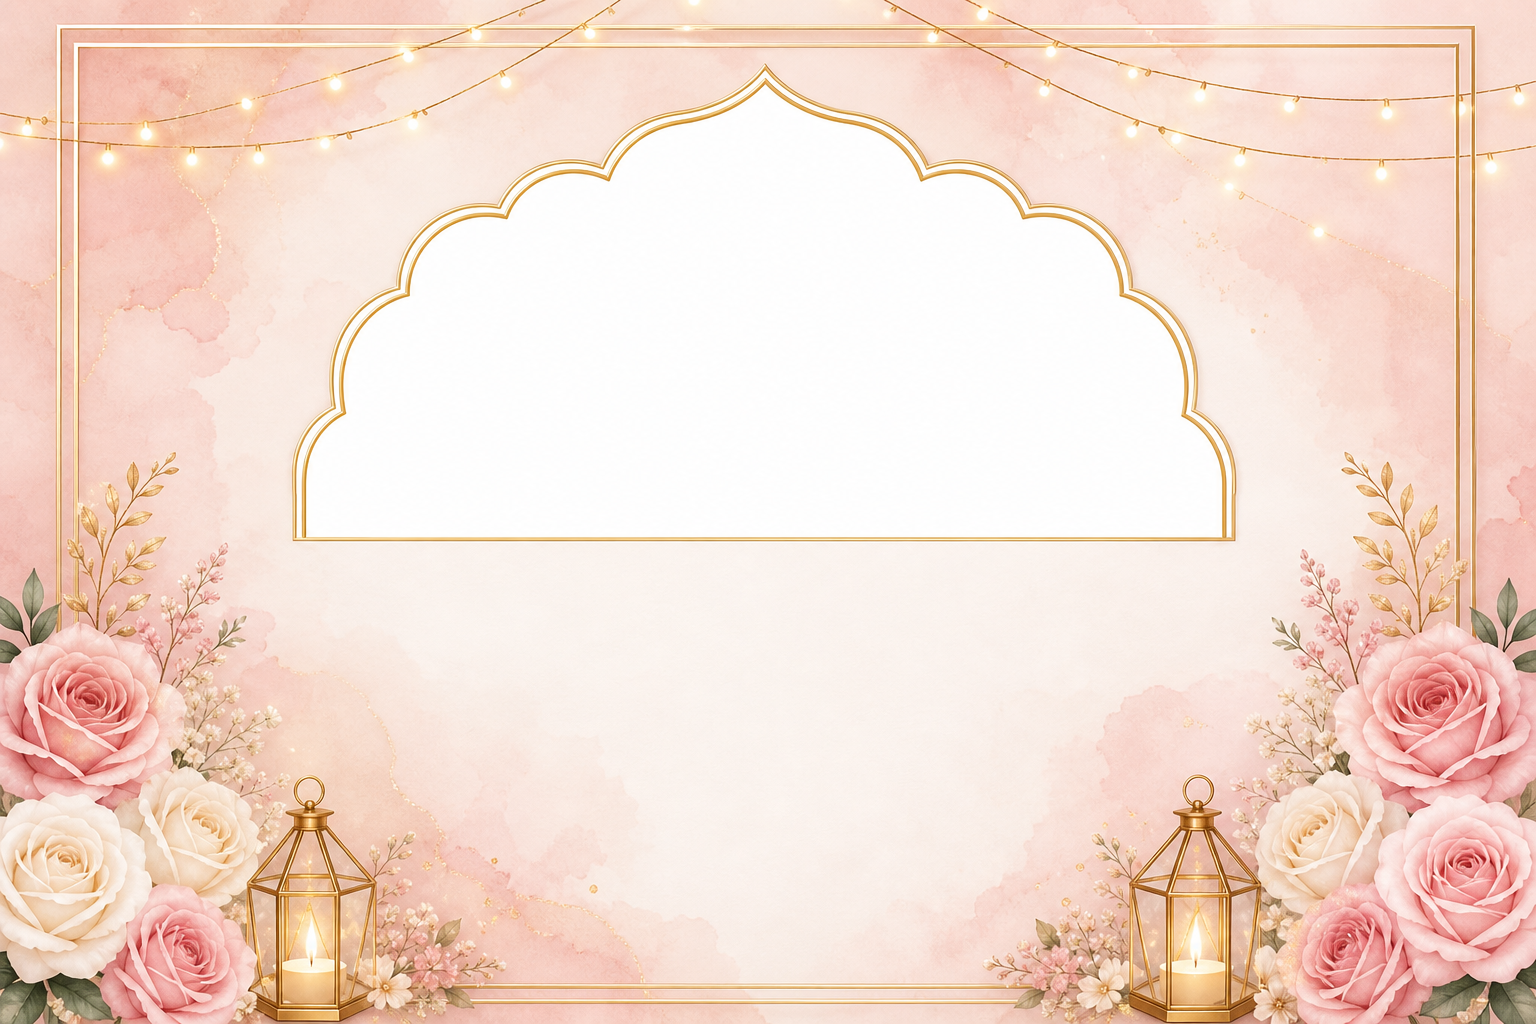
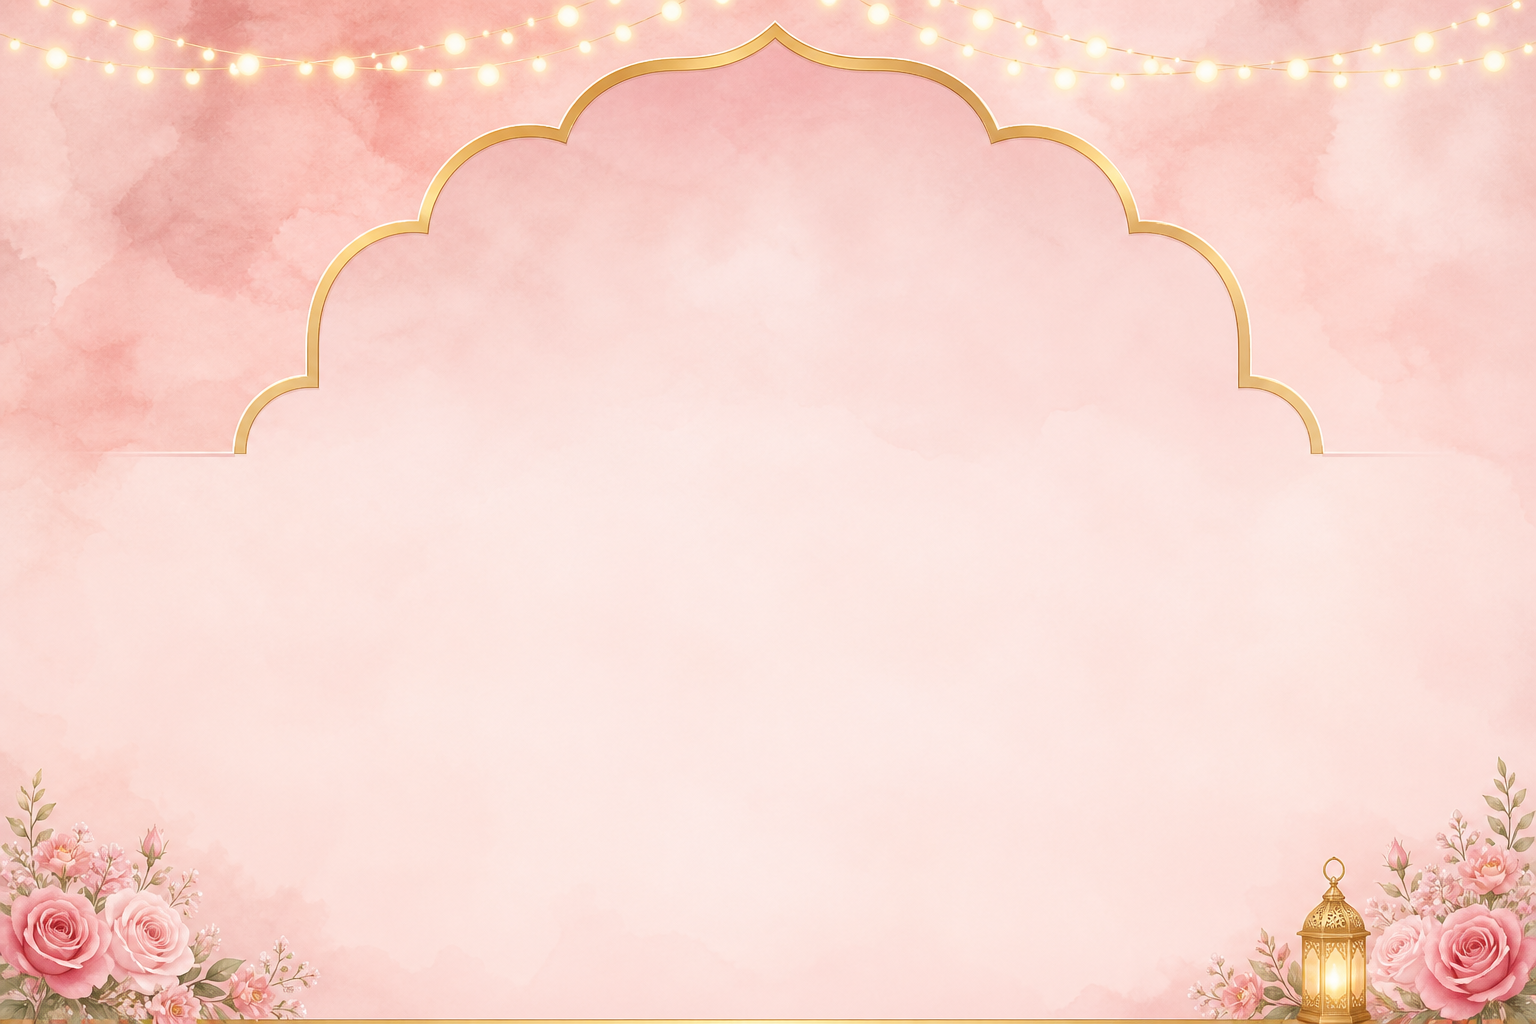
Replace engagement 01 and 04 with text-friendly designs
New artwork: plain middle band, décor at edges/bottom only.
Tighter arch, narrower text column, lower safe bottom (y~1000).
Slightly smaller typography on 01 and 04 when photo is uploaded.

Renamed: Temple Jasmine Arch, Pink Lights Minimal.

diff --git a/app/src/main/java/com/vaangainvite/core/image/InvitationImageGenerator.kt b/app/src/main/java/com/vaangainvite/core/image/InvitationImageGenerator.kt
@@ -221,6 +221,7 @@ class InvitationImageGenerator(private val context: Context) {
         val hasUserMessage = userMessage.isNotBlank()
         val isPeacockVase = template.id == "wedding_05"
         val isEngagement = template.id.startsWith("engagement")
+        val isTightEngagementCard = template.id == "engagement_01" || template.id == "engagement_04"
         val isPeacockWithPhoto = isPeacockVase && hasUploadedPhoto
         val compactLayout = (hasUploadedPhoto && hasUserMessage) || isPeacockVase ||
             (isEngagement && hasUploadedPhoto)
@@ -236,12 +237,14 @@ class InvitationImageGenerator(private val context: Context) {
         }
 
         val introSize = when {
+            isTightEngagementCard && hasUploadedPhoto -> 26f
             isPeacockVase -> 28f
             isEngagement && hasUploadedPhoto -> 28f
             template.id == "wedding_02" && hasUploadedPhoto -> 28f
             else -> 32f
         }
         val occasionSize = when {
+            isTightEngagementCard && hasUploadedPhoto -> 34f
             isPeacockVase -> 38f
             isEngagement && hasUploadedPhoto -> 38f
             template.id == "wedding_02" && hasUploadedPhoto -> 40f
@@ -254,6 +257,7 @@ class InvitationImageGenerator(private val context: Context) {
             palette.primaryColor,
             when {
                 isPeacockVase -> 54f
+                isTightEngagementCard && hasUploadedPhoto -> 44f
                 isEngagement && hasUploadedPhoto -> 48f
                 compactLayout && usesPhotoBackground -> 52f
                 hasUploadedPhoto && usesPhotoBackground -> 54f
@@ -277,6 +281,7 @@ class InvitationImageGenerator(private val context: Context) {
         val messagePaint = textPaint(
             palette.messageColor,
             when {
+                isTightEngagementCard && hasUploadedPhoto -> 20f
                 isEngagement && hasUploadedPhoto -> 22f
                 usesPhotoBackground -> 24f
                 else -> 26f

diff --git a/app/src/main/java/com/vaangainvite/core/image/InvitationLayout.kt b/app/src/main/java/com/vaangainvite/core/image/InvitationLayout.kt
@@ -82,13 +82,13 @@ internal object InvitationLayout {
         "puberty_01" to TextZoneSpec(left = 290f, right = 790f, topNoPhoto = 280f, topWithPhoto = 492f),
         // Engagement WebPs — per-card cream band (measured on designed 1080×1350 art)
         "engagement_01" to TextZoneSpec(
-            left = 200f,
-            right = 880f,
-            topNoPhoto = 468f,
-            topWithPhoto = 492f,
-            bottom = 1085f,
-            messageBottom = 1035f,
-            photoTextGap = 10f
+            left = 235f,
+            right = 845f,
+            topNoPhoto = 458f,
+            topWithPhoto = 478f,
+            bottom = 1002f,
+            messageBottom = 952f,
+            photoTextGap = 14f
         ),
         "engagement_02" to TextZoneSpec(
             left = 200f,
@@ -109,13 +109,13 @@ internal object InvitationLayout {
             photoTextGap = 8f
         ),
         "engagement_04" to TextZoneSpec(
-            left = 210f,
-            right = 870f,
-            topNoPhoto = 465f,
-            topWithPhoto = 490f,
-            bottom = 1085f,
-            messageBottom = 1035f,
-            photoTextGap = 10f
+            left = 235f,
+            right = 845f,
+            topNoPhoto = 452f,
+            topWithPhoto = 472f,
+            bottom = 998f,
+            messageBottom = 948f,
+            photoTextGap = 14f
         ),
         "engagement_05" to TextZoneSpec(
             left = 205f,

diff --git a/docs/samples/engagement/index.html b/docs/samples/engagement/index.html
@@ -20,13 +20,13 @@
   <p>WebP art + arch photo + app-drawn text. Sample: Kavin &amp; Sowmya.</p>
   <h2>Traditional</h2>
   <div class="grid">
-    <figure><img src="engagement_01_with_photo.png" alt=""><figcaption><strong>01 Green Toran Blessing</strong></figcaption></figure>
+    <figure><img src="engagement_01_with_photo.png" alt=""><figcaption><strong>01 Temple Jasmine Arch</strong> (wide text band)</figcaption></figure>
     <figure><img src="engagement_02_with_photo.png" alt=""><figcaption><strong>02 Marigold Heritage</strong></figcaption></figure>
     <figure><img src="engagement_03_with_photo.png" alt=""><figcaption><strong>03 Peacock Lotus Garden</strong></figcaption></figure>
   </div>
   <h2>Modern</h2>
   <div class="grid">
-    <figure><img src="engagement_04_with_photo.png" alt=""><figcaption><strong>04 Blush Rose Lights</strong></figcaption></figure>
+    <figure><img src="engagement_04_with_photo.png" alt=""><figcaption><strong>04 Pink Lights Minimal</strong> (wide text band)</figcaption></figure>
     <figure><img src="engagement_05_with_photo.png" alt=""><figcaption><strong>05 Sage Garden Glow</strong></figcaption></figure>
   </div>
 </body>

diff --git a/app/src/main/java/com/vaangainvite/data/repository/TemplateRepository.kt b/app/src/main/java/com/vaangainvite/data/repository/TemplateRepository.kt
@@ -218,8 +218,8 @@ class TemplateRepository {
         photoTemplate(
             id = "engagement_01",
             categoryId = "engagement",
-            title = "Green Toran Blessing",
-            description = "Banana leaf, jasmine garland, kalash & diyas.",
+            title = "Temple Jasmine Arch",
+            description = "Wide cream text band — toran arch, edge diyas only.",
             resId = R.drawable.bg_engagement_01,
             primaryColor = 0xFF2E7D32.toInt()
         ),
@@ -242,8 +242,8 @@ class TemplateRepository {
         photoTemplate(
             id = "engagement_04",
             categoryId = "engagement",
-            title = "Blush Rose Lights",
-            description = "Pink wash, fairy lights, roses & lanterns.",
+            title = "Pink Lights Minimal",
+            description = "Open pink panel for text — lights top, roses bottom corners.",
             resId = R.drawable.bg_engagement_04,
             primaryColor = 0xFFC2185B.toInt()
         ),

diff --git a/app/src/main/java/com/vaangainvite/core/image/EngagementPhotoPlacement.kt b/app/src/main/java/com/vaangainvite/core/image/EngagementPhotoPlacement.kt
@@ -25,13 +25,10 @@ internal object EngagementPhotoPlacement {
     )
 
     private val specs = mapOf(
-        "engagement_01" to Spec(RectF(312f, 128f, 768f, 448f)),
+        "engagement_01" to Spec(RectF(318f, 118f, 762f, 432f)),
         "engagement_02" to Spec(RectF(308f, 122f, 772f, 452f)),
         "engagement_03" to Spec(RectF(318f, 135f, 762f, 445f)),
-        "engagement_04" to Spec(
-            bounds = RectF(322f, 130f, 758f, 450f),
-            border = Border.INNER_GLOW
-        ),
+        "engagement_04" to Spec(RectF(320f, 115f, 760f, 428f)),
         "engagement_05" to Spec(RectF(315f, 125f, 765f, 448f))
     )
 

diff --git a/tools/convert_photo_backgrounds.py b/tools/convert_photo_backgrounds.py
@@ -10,7 +10,8 @@ from PIL import Image, ImageDraw
 
 TARGET_W = 1080
 # Cream band where the app draws event copy (below arch photo opening).
-TEXT_BAND = (188, 455, 892, 1075)
+# Plain band where the app draws copy (keeps décor at top/bottom edges only).
+TEXT_BAND = (210, 442, 870, 1012)
 TARGET_H = 1350
 TARGET_RATIO = TARGET_W / TARGET_H
 
@@ -31,7 +32,7 @@ def sample_panel_color(im: Image.Image) -> tuple[int, int, int]:
     """Pick a neutral fill from the panel beside the arch (avoids gold frame pixels)."""
     x, y = im.width // 2, int(im.height * 0.36)
     patch = im.crop((x - 20, y - 20, x + 20, y + 20))
-    pixels = list(patch.getdata())
+    pixels = list(patch.get_flattened_data() if hasattr(patch, "get_flattened_data") else patch.getdata())
     pixels.sort(key=lambda c: c[0] + c[1] + c[2])
     return pixels[len(pixels) // 2]
 

diff --git a/docs/samples/engagement/README.md b/docs/samples/engagement/README.md
@@ -11,7 +11,7 @@ Five **new** illustrated WebP templates using the **same photo-card implementati
 | engagement_01 | Green Toran Blessing |
 | engagement_02 | Marigold Heritage |
 | engagement_03 | Peacock Lotus Garden |
-| engagement_04 | Blush Rose Lights |
+| engagement_04 | Pink Lights Minimal |
 | engagement_05 | Sage Garden Glow |
 
 Replace art: add PNGs under `tools/bg_sources/engagement_XX_source.png`, then:
